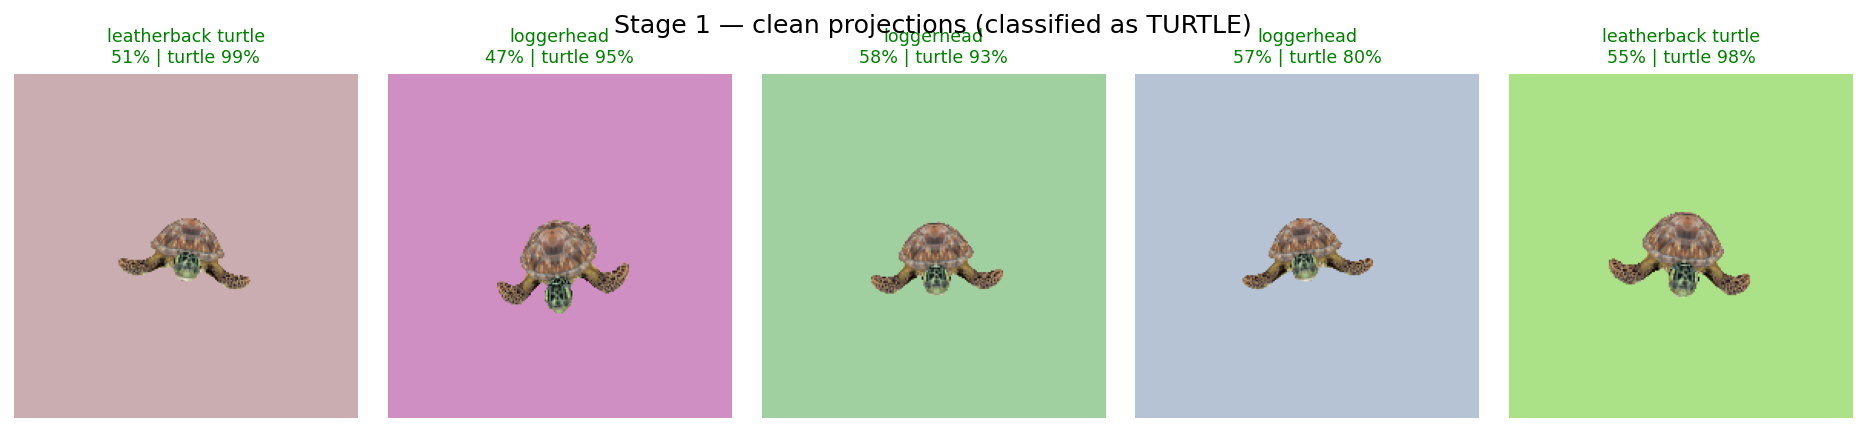
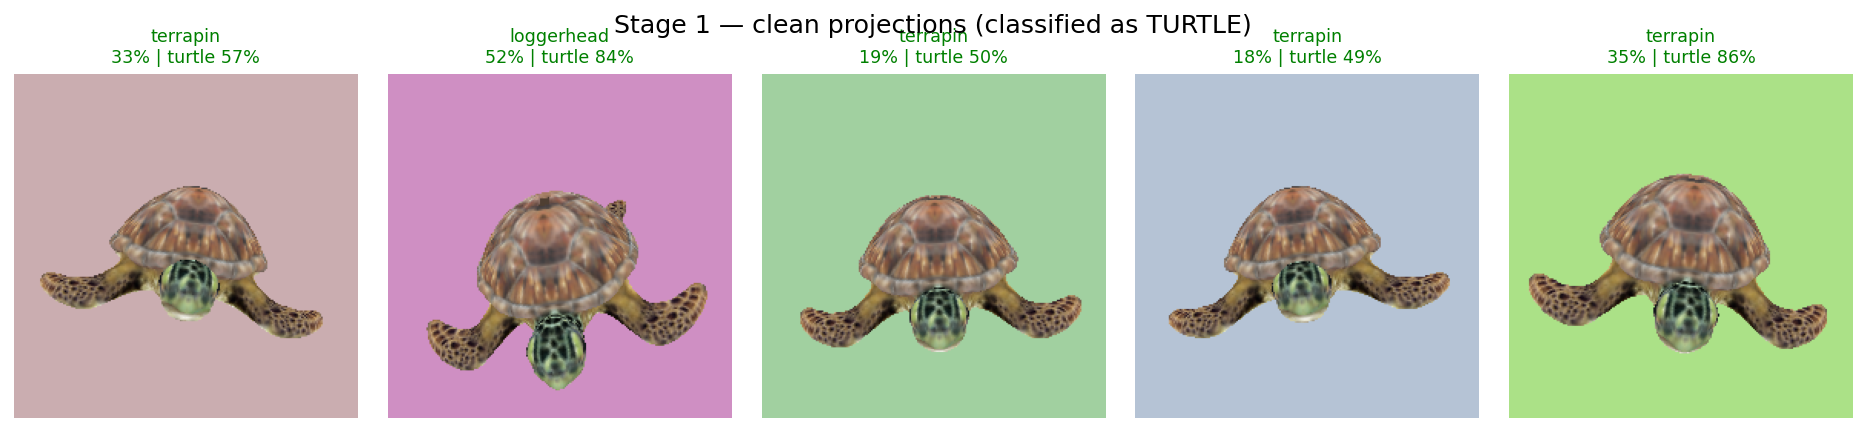
works

diff --git a/pipeline_3d/renderer.py b/pipeline_3d/renderer.py
@@ -73,13 +73,26 @@ class _Pytorch3DTexturedMeshRenderer(nn.Module):
         image_size: int = 224,
         device: Optional[torch.device] = None,
         init_texture: Optional[torch.Tensor] = None,
+        normalize_mesh: bool = True,
+        fov_deg: float = 60.0,
     ):
         super().__init__()
         self.device = device or torch.device("cuda" if torch.cuda.is_available() else "cpu")
         self.image_size = image_size
         self.texture_size = texture_size
+        self.fov_deg = fov_deg
 
         verts, faces, aux = load_obj(obj_path, load_textures=True, device=self.device)
+
+        # Center at origin and scale to unit bounding-sphere radius (matches the
+        # software backend so both render the object at the same framing).
+        if normalize_mesh and verts.numel():
+            mn, mx = verts.min(0).values, verts.max(0).values
+            center = (mn + mx) / 2.0
+            radius = torch.linalg.norm((mx - mn) / 2.0)
+            if radius > 0:
+                verts = (verts - center) / radius
+
         self.register_buffer("verts", verts)
         self.register_buffer("faces_idx", faces.verts_idx)
         self.register_buffer("faces_tex_idx", faces.textures_idx)
@@ -127,7 +140,7 @@ class _Pytorch3DTexturedMeshRenderer(nn.Module):
 
     def forward(self, R, T, lights=None):
         B = R.shape[0]
-        cameras = FoVPerspectiveCameras(R=R, T=T, device=self.device)
+        cameras = FoVPerspectiveCameras(R=R, T=T, fov=self.fov_deg, device=self.device)
         if lights is None:
             lights = AmbientLights(device=self.device)
         meshes = self._build_mesh(B)
@@ -139,7 +152,7 @@ class _Pytorch3DTexturedMeshRenderer(nn.Module):
 
     def render_with_background(self, R, T, bg, lights=None):
         B = R.shape[0]
-        cameras = FoVPerspectiveCameras(R=R, T=T, device=self.device)
+        cameras = FoVPerspectiveCameras(R=R, T=T, fov=self.fov_deg, device=self.device)
         if lights is None:
             lights = AmbientLights(device=self.device)
         meshes = self._build_mesh(B)
@@ -342,11 +355,13 @@ class SoftwareTexturedMeshRenderer(nn.Module):
         device: Optional[torch.device] = None,
         init_texture: Optional[torch.Tensor] = None,
         normalize_mesh: bool = True,
+        fov_deg: float = 60.0,
     ):
         super().__init__()
         self.device = device or torch.device("cpu")
         self.image_size = image_size
         self.texture_size = texture_size
+        self.fov_deg = fov_deg
 
         verts_np, faces_v_np, uvs_np, faces_uv_np = _load_obj_simple(obj_path)
 
@@ -377,7 +392,7 @@ class SoftwareTexturedMeshRenderer(nn.Module):
 
     def _render_single(self, R: torch.Tensor, T: torch.Tensor, bg: torch.Tensor) -> torch.Tensor:
         H = W = self.image_size
-        verts_2d, depths = _project_verts(self.verts_np, R, T, H, W)
+        verts_2d, depths = _project_verts(self.verts_np, R, T, H, W, fov_deg=self.fov_deg)
         uv_map, mask = _rasterize(
             verts_2d, depths,
             self.faces_v_np, self.faces_uv_np,
@@ -422,11 +437,17 @@ def TexturedMeshRenderer(
     image_size: int = 224,
     device: Optional[torch.device] = None,
     init_texture: Optional[torch.Tensor] = None,
+    normalize_mesh: bool = True,
+    fov_deg: float = 60.0,
 ) -> nn.Module:
     """
     Returns a PyTorch3D renderer when available, otherwise the software fallback.
     Both implement the same interface: forward(R, T) and render_with_background(R, T, bg).
+
+    fov_deg: camera field of view. Lower = telephoto (object appears larger with
+             flatter perspective) — useful to make a small object fill the frame.
     """
     cls = _Pytorch3DTexturedMeshRenderer if HAS_PYTORCH3D else SoftwareTexturedMeshRenderer
     return cls(obj_path, texture_size=texture_size, image_size=image_size,
-               device=device, init_texture=init_texture)
+               device=device, init_texture=init_texture,
+               normalize_mesh=normalize_mesh, fov_deg=fov_deg)

diff --git a/demo_3d_turtle_attack.py b/demo_3d_turtle_attack.py
@@ -35,12 +35,17 @@ TURTLE_CLASSES = [33, 34, 35, 36, 37]
 
 
 def turtle_view_config() -> TransformConfig:
-    """Viewpoint distribution under which the clean turtle reads as a turtle."""
+    """Viewpoint distribution under which the clean turtle reads as a turtle.
+
+    Paired with a telephoto FOV (see --fov), this frames the turtle large in
+    the image (~20% pixel fill) so a screen-space mask must actually overpower a
+    prominent, confidently-classified turtle rather than a tiny one.
+    """
     return TransformConfig(
         rotation_mode="yaw_pitch",
         yaw_min_deg=170.0, yaw_max_deg=220.0,
         pitch_min_deg=55.0, pitch_max_deg=90.0,
-        dist_min=2.5, dist_max=3.0,
+        dist_min=2.6, dist_max=3.0,
         bg_color_min=0.5, bg_color_max=0.9,
     )
 
@@ -91,6 +96,8 @@ def main():
     parser.add_argument("--n_views", type=int, default=5)
     parser.add_argument("--image_size", type=int, default=224)
     parser.add_argument("--texture_size", type=int, default=256)
+    parser.add_argument("--fov", type=float, default=30.0,
+                        help="Camera field of view (deg). Lower = telephoto = larger turtle.")
     parser.add_argument("--save_dir", type=str, default="turtle_attack_output")
     parser.add_argument("--seed", type=int, default=1234)
     args = parser.parse_args()
@@ -100,7 +107,7 @@ def main():
 
     renderer = TexturedMeshRenderer(
         obj_path=args.obj, texture_size=args.texture_size,
-        image_size=args.image_size, device=device,
+        image_size=args.image_size, device=device, fov_deg=args.fov,
     )
     classifier = InceptionV3Classifier(device=device)
     names = models.Inception_V3_Weights.IMAGENET1K_V1.meta["categories"]
